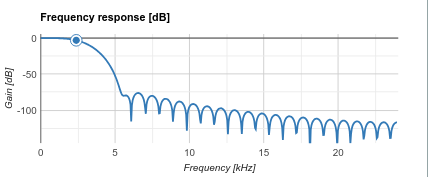
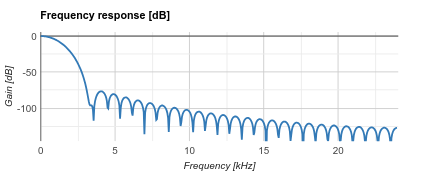
Fix frequency response plot (#26)

diff --git a/docs/index.html b/docs/index.html
@@ -135,7 +135,7 @@ Uso del filtro</h1>
 </ul>
 <h1 class="doxsection"><a class="anchor" id="demo"></a>
 Demostración</h1>
-<p>Para la demostración de la funcionalidad el filtro en C, se generó un filtro haciendo uso de <a href="https://fiiir.com">FIIR</a>, que permite generar coeficientes para filtros arbitrarios con frecuencias de muestreo y filtrado determinadas. Para esta demostración se generó un FIR cuya respuesta al impulso coincide con un seno cardinal (sinc), con una frecuencia de muestreo de 48kHz, una frecuencia de cutoff de 2850Hz y un ancho de banda de transición de 4320Hz, el cual observando su respuesta en frecuencia, tenemos que genera una atenuación de 3dB a 0.1 frecuencia relativa a la de Nyquist, es decir (Fs/2 = 24kHz). </p><div class="image">
+<p>Para la demostración de la funcionalidad el filtro en C, se generó un filtro haciendo uso de <a href="https://fiiir.com">FIIR</a>, que permite generar coeficientes para filtros arbitrarios con frecuencias de muestreo y filtrado determinadas. Para esta demostración se generó un FIR cuya respuesta al impulso coincide con un seno cardinal (sinc), con una frecuencia de muestreo de 48kHz, una frecuencia de cutoff de 800Hz y un ancho de banda de transición de 3840Hz, el cual observando su respuesta en frecuencia, tenemos que genera una atenuación de 35dB a 0.1 frecuencia relativa a la de Nyquist, es decir ((0.1)Fs/2 = 2.4kHz). </p><div class="image">
 <img src="demo_response_freq.png" alt=""/>
 <div class="caption">
 Respuesta en frecuencia del filtro demostración</div></div>

diff --git a/code/include/fir_filter.h b/code/include/fir_filter.h
@@ -75,7 +75,7 @@
  *   o automatización.
  *
  * @section demo Demostración
- * Para la demostración de la funcionalidad el filtro en C, se generó un filtro haciendo uso de [FIIR](https://fiiir.com), que permite generar coeficientes para filtros arbitrarios con frecuencias de muestreo y filtrado determinadas. Para esta demostración se generó un FIR cuya respuesta al impulso coincide con un seno cardinal (sinc), con una frecuencia de muestreo de 48kHz, una frecuencia de cutoff de 2850Hz y un ancho de banda de transición de 4320Hz, el cual observando su respuesta en frecuencia, tenemos que genera una atenuación de 3dB a 0.1 frecuencia relativa a la de Nyquist, es decir (Fs/2 = 24kHz).
+ * Para la demostración de la funcionalidad el filtro en C, se generó un filtro haciendo uso de [FIIR](https://fiiir.com), que permite generar coeficientes para filtros arbitrarios con frecuencias de muestreo y filtrado determinadas. Para esta demostración se generó un FIR cuya respuesta al impulso coincide con un seno cardinal (sinc), con una frecuencia de muestreo de 48kHz, una frecuencia de cutoff de 800Hz y un ancho de banda de transición de 3840Hz, el cual observando su respuesta en frecuencia, tenemos que genera una atenuación de 35dB a 0.1 frecuencia relativa a la de Nyquist, es decir ((0.1)Fs/2 = 2.4kHz).
  * @image html demo_response_freq.png "Respuesta en frecuencia del filtro demostración"
  *
  * @subsection demo_gui Demostración en modo gráfico (GUI)
